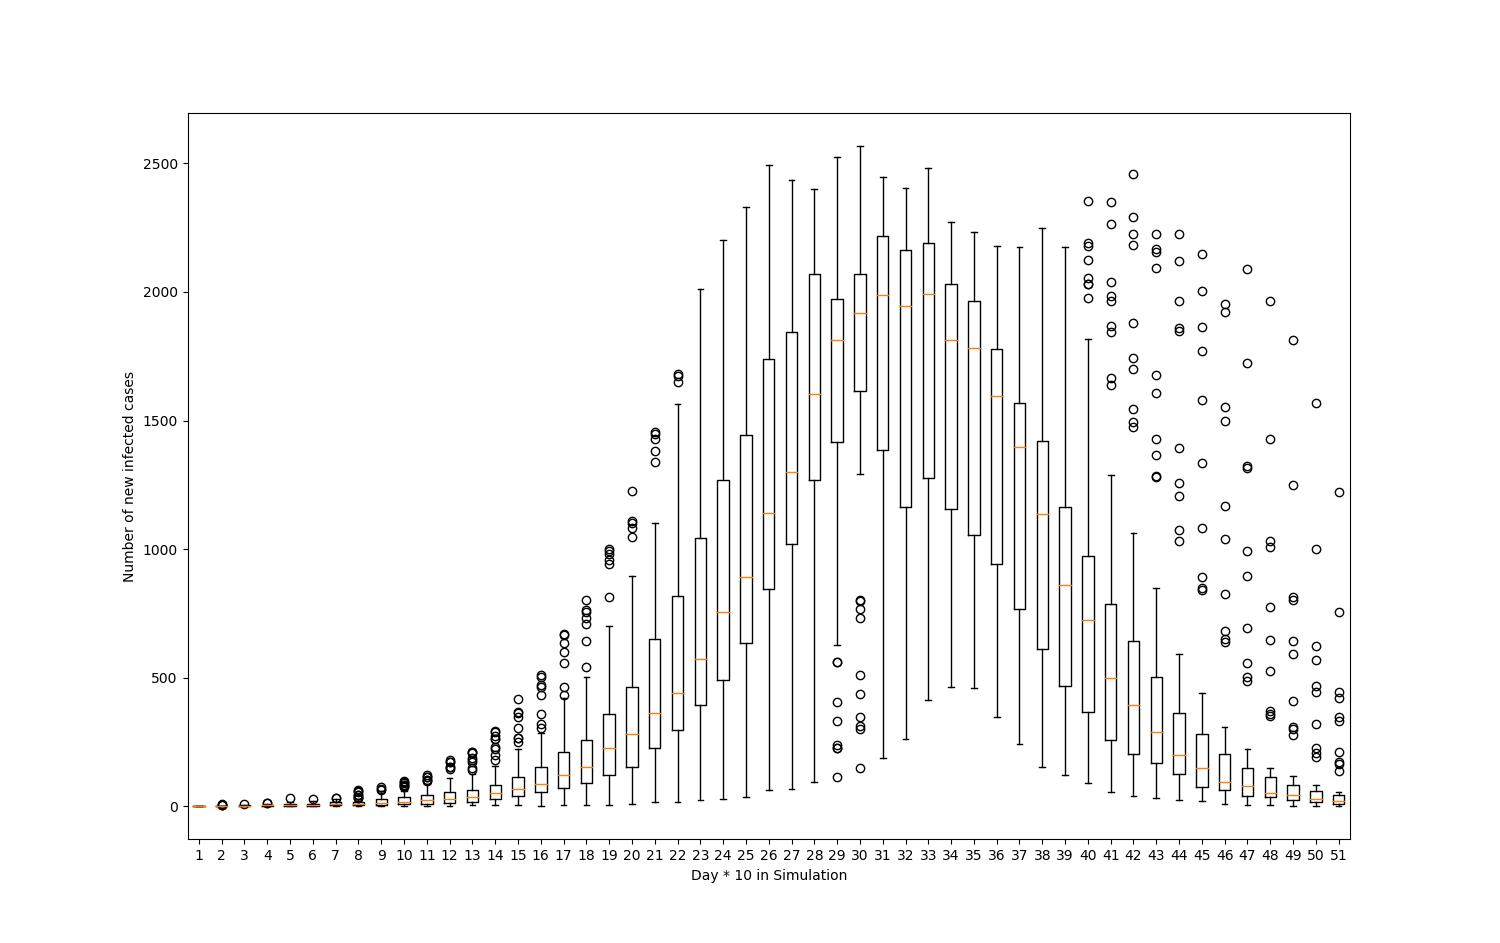
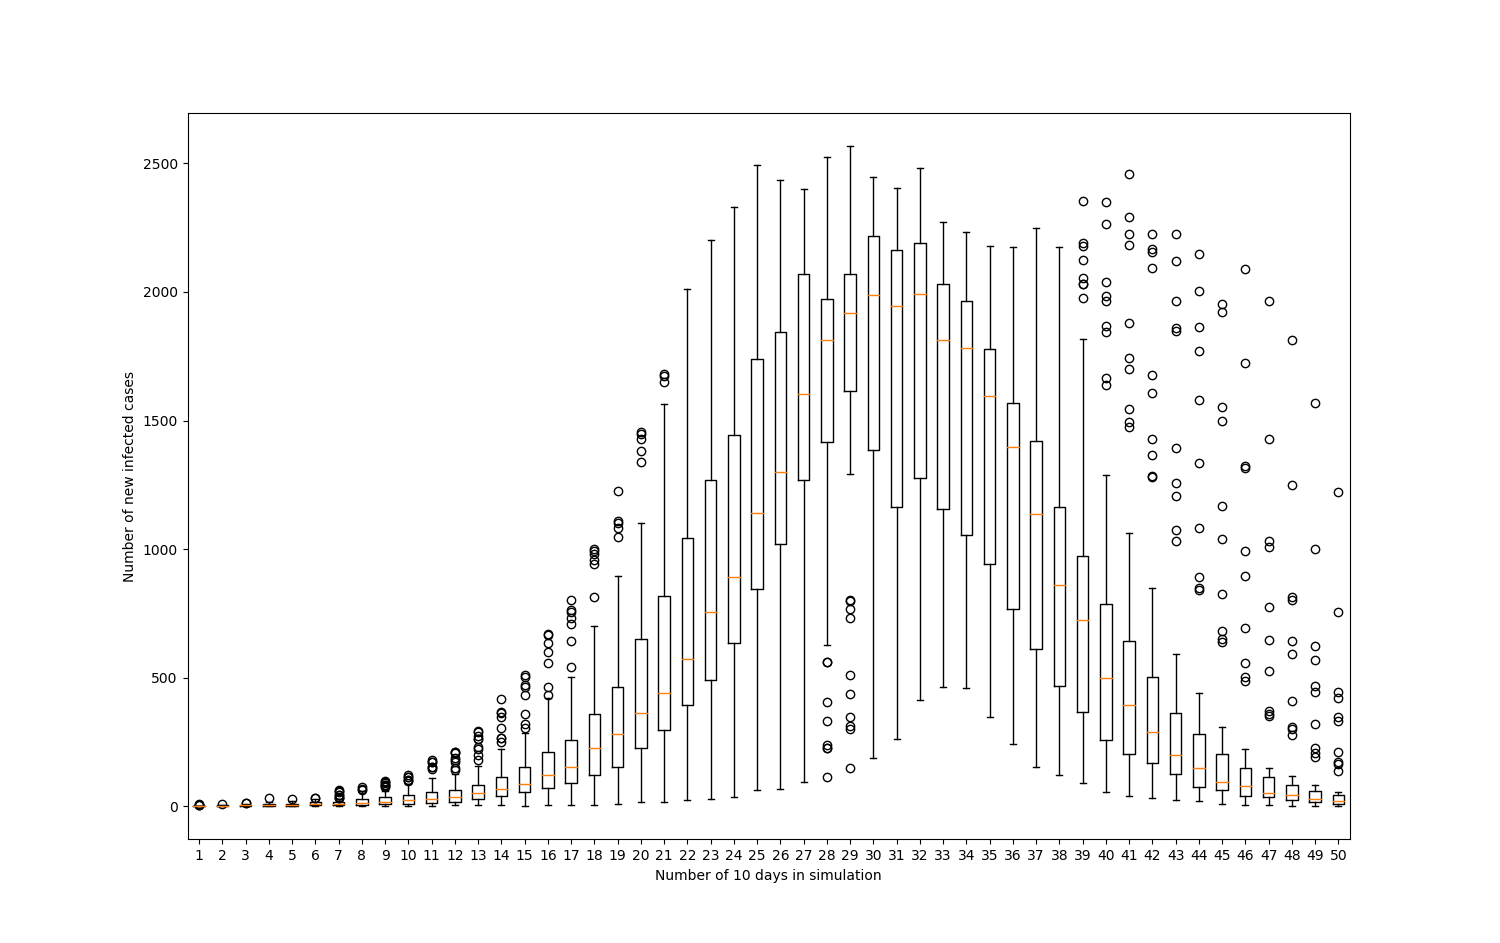
update boxplot

diff --git a/plotStAn.py b/plotStAn.py
@@ -28,8 +28,8 @@ def plot_cumulative_and_new_cases(file):
         for i in range(length):
             if i == 0:
                 result.append(data_array[i])
-                if max(data_array) > 100:
-                    data_difference_boxplot[i].append(data_array[i])
+                # if max(data_array) > 100:
+                #     data_difference_boxplot[i].append(data_array[i])
 
             else:
                 result.append(data_array[i] - data_array[i - 1])
@@ -66,12 +66,14 @@ def plot_cumulative_and_new_cases(file):
     # Box plot
     boxplot_data = []
     for i in range(len(data_difference[0])):
-        if i%boxplot_measure_interval == 0:
+        if i%boxplot_measure_interval == 0 and i != 0:
             boxplot_data.append(data_difference_boxplot[i])
 
     plt.boxplot(boxplot_data)
-
-    plt.xlabel('Day * 10 in Simulation')
+    if boxplot_measure_interval == 1:
+        plt.xlabel('Number of days in simulation')
+    else:
+        plt.xlabel('Number of ', boxplot_measure_interval,'days in simulation')
     plt.ylabel('Number of new infected cases')
 
     plt.show()
